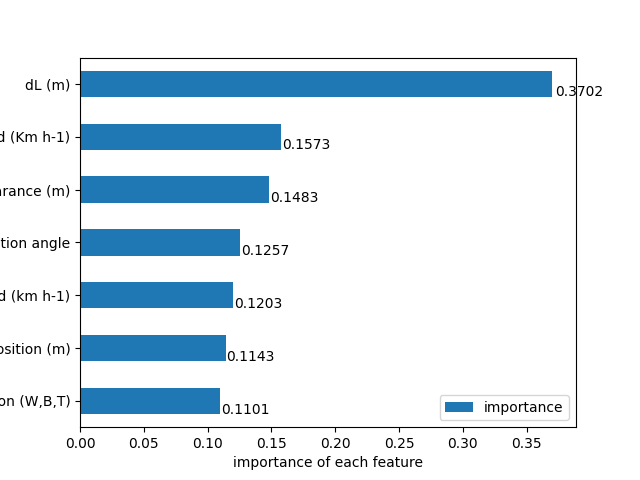
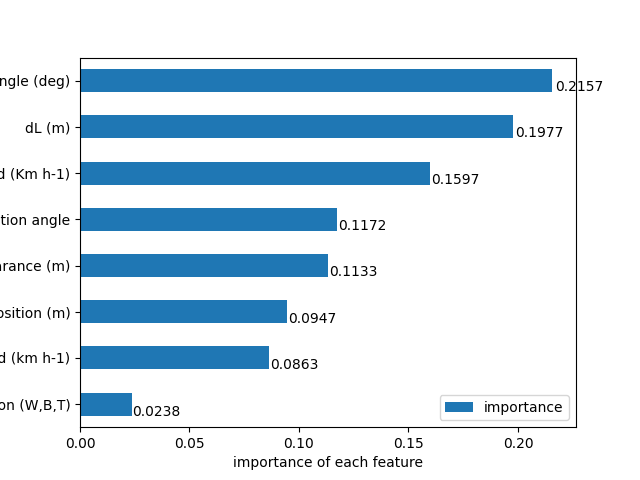
results I guess

diff --git a/predictions/train_v5_fastai.py b/predictions/train_v5_fastai.py
@@ -77,7 +77,7 @@ class load_data:
         # self.cont_names = ['Speed (Km h-1)', 'Position (m)', 'ZA', 'Net clearance (m)', 'Loss of speed (km h-1)', 'Vertical projection angle (deg)', 'dL (m)']  # 'TIME', 'Speed (Km h-1)',  ##### ****** here!!!!*****
         
         # breakpoint()   # important here to select one or the other!
-        self.cont_names = ['Speed (Km h-1)', 'Position (m)', 'Net clearance (m)', 'Loss of speed (km h-1)', 'Vertical projection angle (deg)', 'Serve angle (deg)']  
+        self.cont_names = ['Speed (Km h-1)', 'Position (m)', 'Net clearance (m)', 'Loss of speed (km h-1)', 'Vertical projection angle (deg)', 'Serve angle (deg)', 'dL (m)'] 
         # self.cont_names = ['Speed (Km h-1)', 'Position (m)', 'Net clearance (m)', 'Loss of speed (km h-1)', 'Vertical projection angle (deg)', 'dL (m)']
         
         ### from correlation matriz: delete --> 'ZA' (keep ANG.IN), delete TIME, keep V(km/h, & dL (m) (keep Serve angle (deg)), 
@@ -314,10 +314,11 @@ def main(df, data, hyperp, store_dir, split:list=[0], title=False, shap_subset='
     else:
         print(f"using {shap_subset} points for plotting the shap summary")
         df_shap = df.iloc[:shap_subset]
-        
+    
     exp = ShapInterpretation(learn, df_shap) # .iloc[:1000])
     print('1')
     exp.summary_plot(show=False)
+    plt.legend()
     plt.show()
     fig_title = f"{title}_SHAP.png"
     if title:
